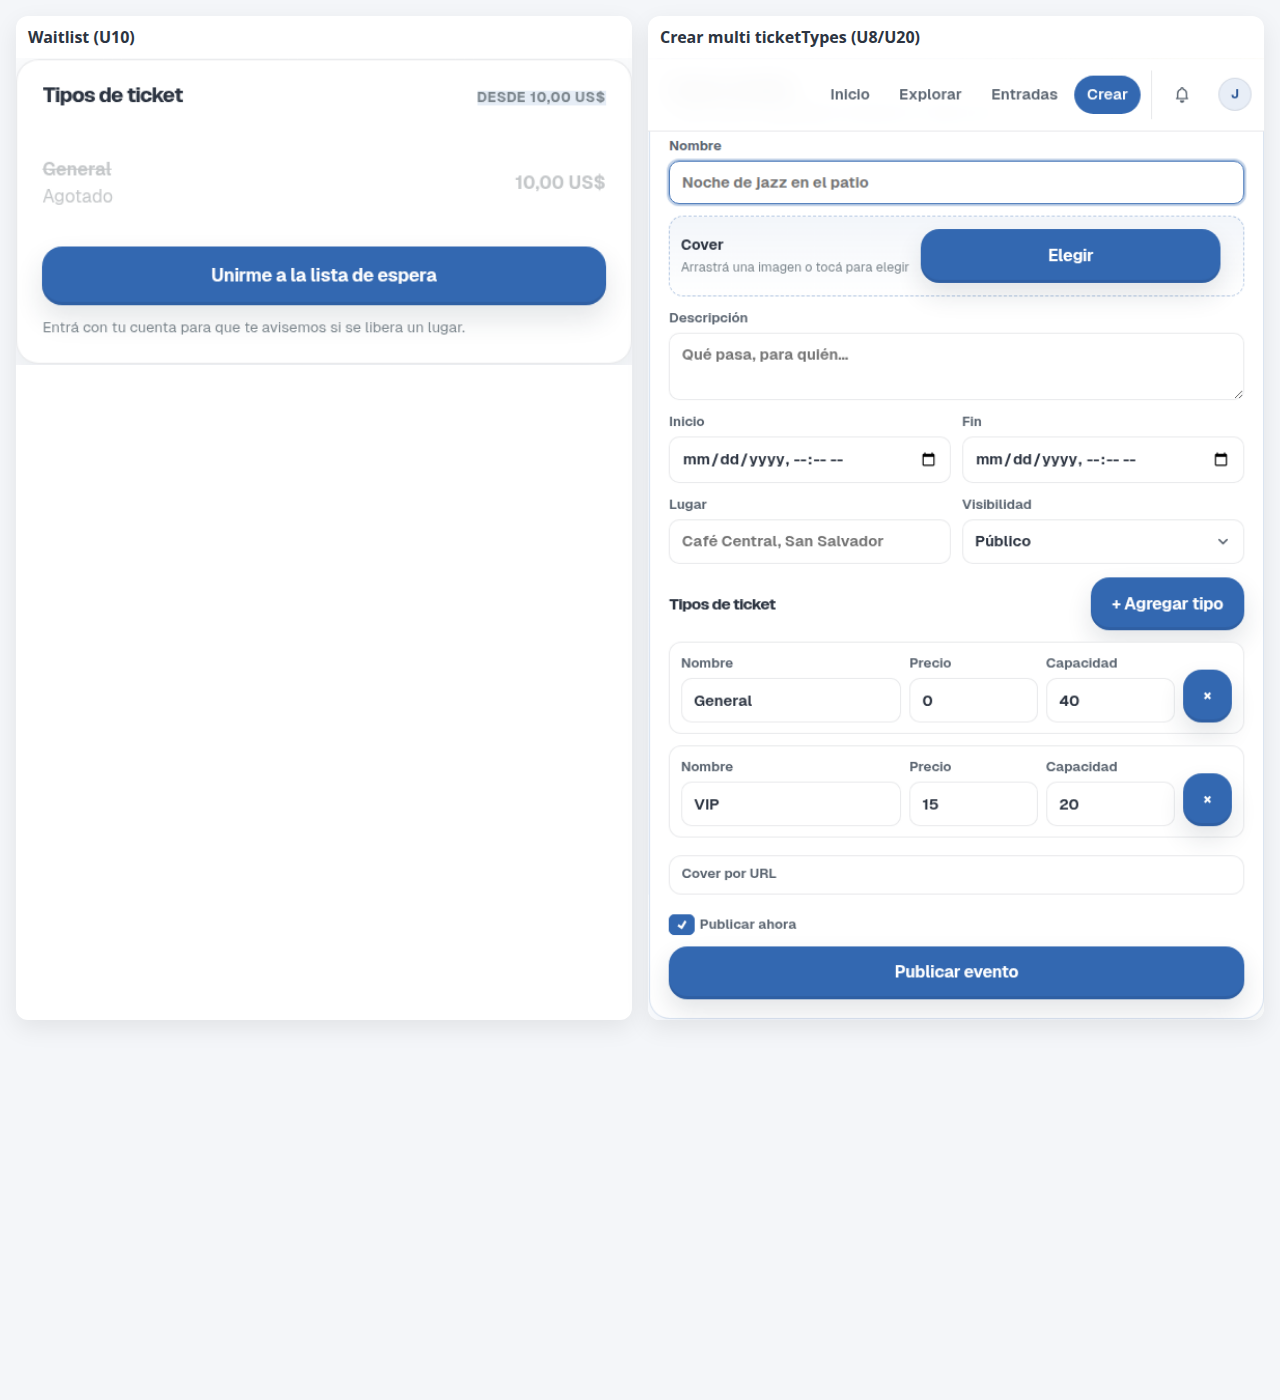
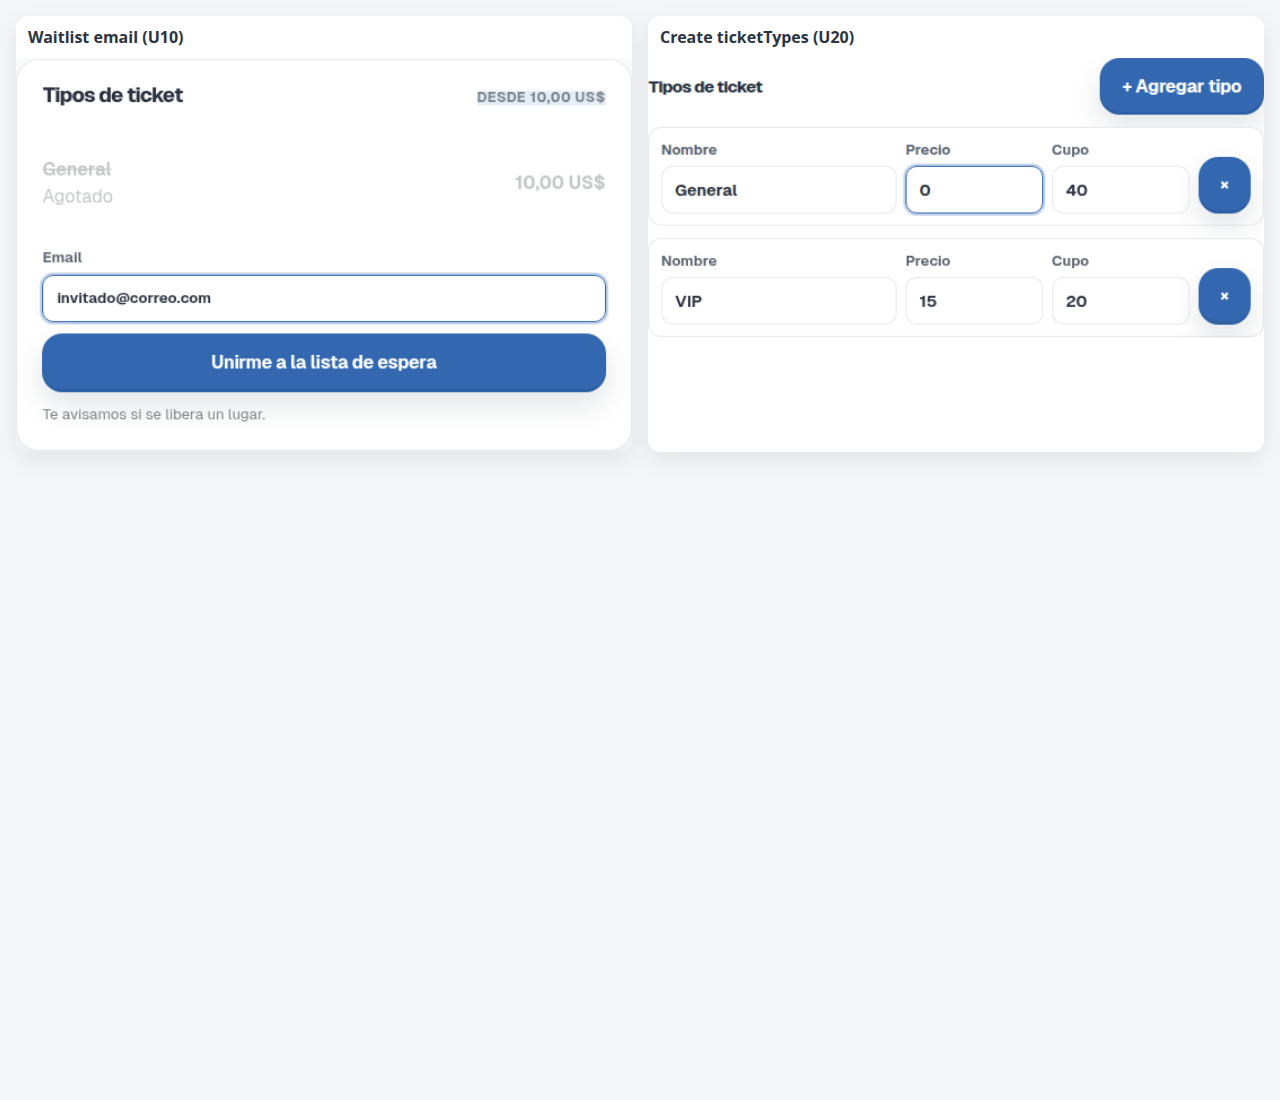
fix(U10/U20): styled waitlist email + create ticketTypes rows
Add guest email field on sold-out waitlist with form tokens; keep
create ticketTypes name/precio/cupo inputs on the same input system.

diff --git a/src/styles/global.css b/src/styles/global.css
@@ -2979,20 +2979,19 @@ html:not(.is-authed) .pase-page .page-loader {
   display: grid;
   gap: 0.28rem;
 }
-.waitlist-form input[type="email"] {
+.waitlist-form input[type='email'] {
   width: 100%;
   padding: 0.65rem 0.75rem;
   border: 1px solid var(--line);
   border-radius: 10px;
+  background: #fff;
   font: inherit;
+  color: var(--ink);
+  box-sizing: border-box;
 }
-.waitlist-form input[type="email"]:focus {
+.waitlist-form input[type='email']:focus {
   outline: 2px solid rgba(51, 104, 177, 0.28);
   border-color: #3368b1;
-}
-.waitlist-form {
-  display: grid;
-  gap: 0.65rem;
 }
 .waitlist-form.is-joined .btn--waitlist {
   background: var(--ink-soft);
